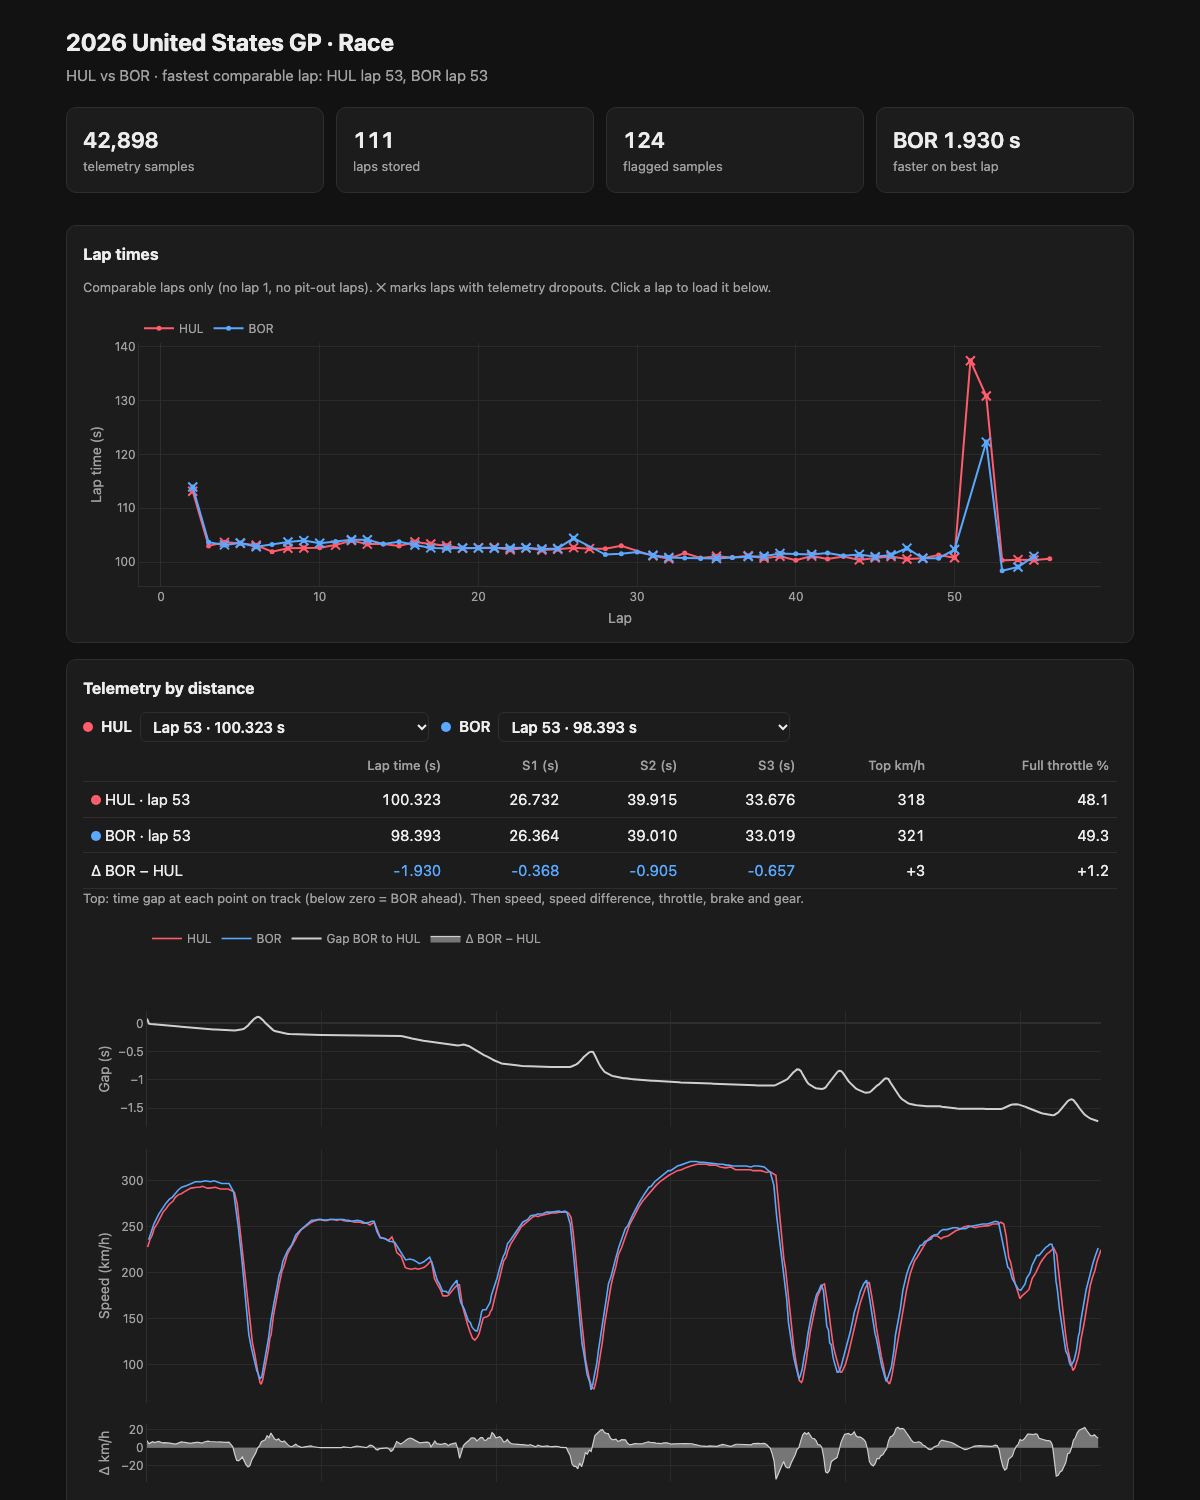
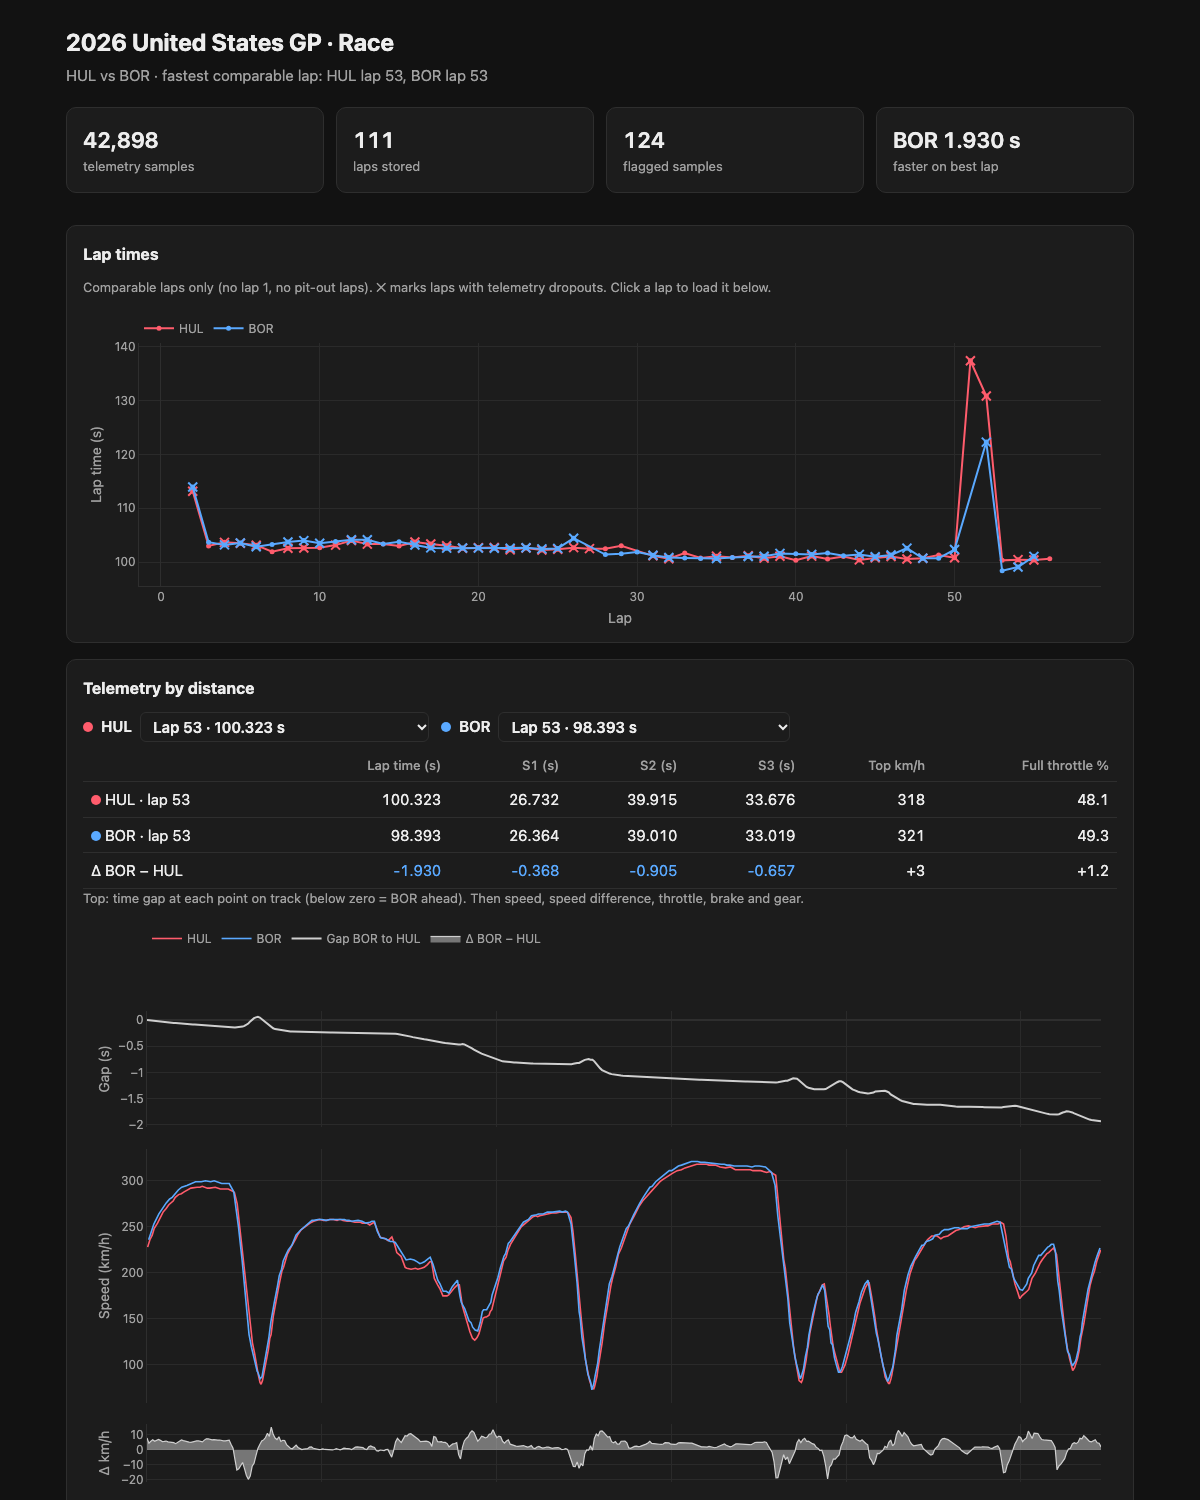
Cache raw API data, test loading, align laps in the time gap
- get() keeps raw OpenF1 responses in .cache/ and retries rate limits,
  server errors and timeouts; client errors fail at once.
- Offline tests for load() (lap assignment, grid and post-race samples
  dropped, comparable laps) and for retry and cache.
- Report closes each lap at the line and scales both laps to the same
  length, so the time gap runs from 0 to the real lap-time difference.

diff --git a/f1telemetry/report.html b/f1telemetry/report.html
@@ -170,17 +170,30 @@ function sectors() {
 function telemetry() {
   sectors();
   const t = { [A]: D.traces[A][sel[A]], [B]: D.traces[B][sel[B]] };
-  const ca = clean(t[A]), cb = clean(t[B]);
-  const len = Math.min(ca.x[ca.x.length - 1], cb.x[cb.x.length - 1]);
+  const c = { [A]: clean(t[A]), [B]: clean(t[B]) };
+  // Distance is estimated, so the two laps come out a few metres different in length. Close each lap at the
+  // line (the stretch after its last sample, from its lap time) and scale both to the same length, so a
+  // corner sits at the same x for both cars and the gap ends at the real lap-time difference.
+  const end = {};
+  for (const d of D.drivers) {
+    const p = c[d], n = p.x.length - 1, lapTime = (lapRow(d, sel[d]) || {}).LapTimeS;
+    const tail = lapTime != null ? Math.max(0, lapTime - p.t[n]) : 0;
+    end[d] = p.x[n] + p.v[n] / 3.6 * tail;
+    p.x.push(end[d]); p.v.push(p.v[n]); p.t.push(p.t[n] + tail);
+    p.x.unshift(0); p.v.unshift(p.v[0]); p.t.unshift(0);  // both cars cross the line at 0 s, 0 m
+  }
+  const len = (end[A] + end[B]) / 2, k = { [A]: len / end[A], [B]: len / end[B] };
+  for (const d of D.drivers) c[d].x = c[d].x.map(x => x * k[d]);
+  const ca = c[A], cb = c[B];
   const grid = Array.from({ length: 500 }, (_, i) => len * i / 499);
   const delta = grid.map(x => interp(x, cb.x, cb.v) - interp(x, ca.x, ca.v));
   // Time gap at the same point on track: negative means B got there first.
   const gap = grid.map(x => interp(x, cb.x, cb.t) - interp(x, ca.x, ca.t));
   const rows = [["y", "Speed", "Speed (km/h)"], ["y3", "Throttle", "Throttle (%)"], ["y4", "Brake", "Brake"], ["y5", "nGear", "Gear"]];
   const traces = [];
-  for (const d of D.drivers) for (const [ax, k] of rows)
-    traces.push({ x: t[d].Distance, y: t[d][k], yaxis: ax, name: d, legendgroup: d, showlegend: ax === "y",
-      line: { color: color(d), width: 1.6, shape: k === "nGear" ? "hv" : "linear" },
+  for (const d of D.drivers) for (const [ax, key] of rows)
+    traces.push({ x: t[d].Distance.map(x => x == null ? null : x * k[d]), y: t[d][key], yaxis: ax, name: d, legendgroup: d, showlegend: ax === "y",
+      line: { color: color(d), width: 1.6, shape: key === "nGear" ? "hv" : "linear" },
       hovertemplate: `${d} %{y} @ %{x:.0f} m<extra></extra>` });
   traces.push({ x: grid, y: gap, yaxis: "y6", name: `Gap ${B} to ${A}`,
     line: { color: css("--delta"), width: 2 }, hovertemplate: `gap %{y:+.3f} s @ %{x:.0f} m<extra></extra>` });

diff --git a/report.html b/report.html
@@ -170,17 +170,30 @@ function sectors() {
 function telemetry() {
   sectors();
   const t = { [A]: D.traces[A][sel[A]], [B]: D.traces[B][sel[B]] };
-  const ca = clean(t[A]), cb = clean(t[B]);
-  const len = Math.min(ca.x[ca.x.length - 1], cb.x[cb.x.length - 1]);
+  const c = { [A]: clean(t[A]), [B]: clean(t[B]) };
+  // Distance is estimated, so the two laps come out a few metres different in length. Close each lap at the
+  // line (the stretch after its last sample, from its lap time) and scale both to the same length, so a
+  // corner sits at the same x for both cars and the gap ends at the real lap-time difference.
+  const end = {};
+  for (const d of D.drivers) {
+    const p = c[d], n = p.x.length - 1, lapTime = (lapRow(d, sel[d]) || {}).LapTimeS;
+    const tail = lapTime != null ? Math.max(0, lapTime - p.t[n]) : 0;
+    end[d] = p.x[n] + p.v[n] / 3.6 * tail;
+    p.x.push(end[d]); p.v.push(p.v[n]); p.t.push(p.t[n] + tail);
+    p.x.unshift(0); p.v.unshift(p.v[0]); p.t.unshift(0);  // both cars cross the line at 0 s, 0 m
+  }
+  const len = (end[A] + end[B]) / 2, k = { [A]: len / end[A], [B]: len / end[B] };
+  for (const d of D.drivers) c[d].x = c[d].x.map(x => x * k[d]);
+  const ca = c[A], cb = c[B];
   const grid = Array.from({ length: 500 }, (_, i) => len * i / 499);
   const delta = grid.map(x => interp(x, cb.x, cb.v) - interp(x, ca.x, ca.v));
   // Time gap at the same point on track: negative means B got there first.
   const gap = grid.map(x => interp(x, cb.x, cb.t) - interp(x, ca.x, ca.t));
   const rows = [["y", "Speed", "Speed (km/h)"], ["y3", "Throttle", "Throttle (%)"], ["y4", "Brake", "Brake"], ["y5", "nGear", "Gear"]];
   const traces = [];
-  for (const d of D.drivers) for (const [ax, k] of rows)
-    traces.push({ x: t[d].Distance, y: t[d][k], yaxis: ax, name: d, legendgroup: d, showlegend: ax === "y",
-      line: { color: color(d), width: 1.6, shape: k === "nGear" ? "hv" : "linear" },
+  for (const d of D.drivers) for (const [ax, key] of rows)
+    traces.push({ x: t[d].Distance.map(x => x == null ? null : x * k[d]), y: t[d][key], yaxis: ax, name: d, legendgroup: d, showlegend: ax === "y",
+      line: { color: color(d), width: 1.6, shape: key === "nGear" ? "hv" : "linear" },
       hovertemplate: `${d} %{y} @ %{x:.0f} m<extra></extra>` });
   traces.push({ x: grid, y: gap, yaxis: "y6", name: `Gap ${B} to ${A}`,
     line: { color: css("--delta"), width: 2 }, hovertemplate: `gap %{y:+.3f} s @ %{x:.0f} m<extra></extra>` });

diff --git a/tests/test_pipeline.py b/tests/test_pipeline.py
@@ -1,6 +1,11 @@
-import pandas as pd
+import io
+import urllib.error
 
-from f1telemetry.pipeline import add_distance, compare, validate
+import pandas as pd
+import pytest
+
+from f1telemetry import pipeline
+from f1telemetry.pipeline import add_distance, compare, load, validate
 
 
 def samples(**override):
@@ -89,3 +94,51 @@ def test_report_embeds_traces_and_comparison():
     assert data["traces"]["BOR"]["1"]["Speed"] == [270.0, None, 290.0, 300.0]  # NaN becomes null
     assert data["comparison"]["delta_s"] == 0.5
     assert "<title>Test GP</title>" in html
+
+
+def test_load_assigns_samples_to_laps_and_drops_the_rest(monkeypatch):
+    t = lambda s: (pd.Timestamp("2026-10-25T19:00:00Z") + pd.Timedelta(seconds=s)).isoformat()
+    api = {
+        "sessions": [{"session_key": 1, "date_start": t(0)}],
+        "drivers": [{"name_acronym": "HUL", "driver_number": 27}],
+        "laps": [  # lap 1 from the grid, lap 2 a normal lap, lap 3 out of the pits
+            {"lap_number": n, "date_start": t(start), "lap_duration": dur, "is_pit_out_lap": pit,
+             "duration_sector_1": 30.0, "duration_sector_2": 30.0, "duration_sector_3": 30.0}
+            for n, start, dur, pit in [(1, 10, 100, None), (2, 110, 90, False), (3, 200, 95, True)]],
+        "car_data": [{"date": t(s), "speed": 200, "rpm": 11000, "n_gear": 6, "throttle": 100, "brake": 0, "drs": 0}
+                     for s in (5, 10.5, 109.9, 110.2, 400)],  # 5 s is on the grid, 400 s after the last lap
+    }
+    monkeypatch.setattr(pipeline, "get", lambda endpoint, **_: pd.DataFrame(api[endpoint]))
+    samples, laps = load(2026, "Austin", "Race", ["HUL"])
+    assert samples["LapNumber"].tolist() == [1, 1, 2]
+    assert samples["TimeInLapS"].round(3).tolist() == [0.5, 99.9, 0.2]
+    assert samples["SessionTimeS"].tolist()[0] == 10.5
+    assert laps["IsAccurate"].tolist() == [False, True, False]
+
+
+def test_get_retries_rate_limits_and_caches_raw_data(monkeypatch, tmp_path):
+    calls = []
+
+    def urlopen(url, timeout):
+        calls.append(url)
+        if len(calls) == 1:
+            raise urllib.error.HTTPError(url, 429, "Too Many Requests", None, None)
+        return io.BytesIO(b'[{"lap_number": 1}]')
+
+    monkeypatch.setattr(pipeline, "CACHE", tmp_path)
+    monkeypatch.setattr(pipeline.urllib.request, "urlopen", urlopen)
+    monkeypatch.setattr(pipeline.time, "sleep", lambda s: None)
+    assert pipeline.get("laps", session_key=1).to_dict("records") == [{"lap_number": 1}]
+    assert pipeline.get("laps", session_key=1).to_dict("records") == [{"lap_number": 1}]  # from the cache
+    assert len(calls) == 2  # one rate-limited attempt, one success, nothing for the second call
+
+
+def test_get_does_not_retry_a_bad_request(monkeypatch, tmp_path):
+    def urlopen(url, timeout):
+        raise urllib.error.HTTPError(url, 404, "Not Found", None, None)
+
+    monkeypatch.setattr(pipeline, "CACHE", tmp_path)
+    monkeypatch.setattr(pipeline.urllib.request, "urlopen", urlopen)
+    with pytest.raises(urllib.error.HTTPError):
+        pipeline.get("laps", session_key=1)
+    assert not list(tmp_path.iterdir())

diff --git a/f1telemetry/pipeline.py b/f1telemetry/pipeline.py
@@ -1,8 +1,11 @@
 """Ingest, validate, store and compare F1 car telemetry."""
 import json
 import sqlite3
+import time
+import urllib.error
 import urllib.parse
 import urllib.request
+from pathlib import Path
 
 import numpy as np
 import pandas as pd
@@ -12,14 +15,35 @@ CHANNELS = ["Speed", "RPM", "nGear", "Throttle", "Brake", "DRS"]
 # Physical limits for an F1 car; anything outside is a sensor or transmission error
 # (OpenF1 reports 104 for throttle/brake when the value is invalid).
 LIMITS = {"Speed": (0, 380), "RPM": (0, 15500), "nGear": (0, 8), "Throttle": (0, 100), "Brake": (0, 100)}
+CACHE = Path(".cache")  # raw API responses; delete it to download again
+RETRIES = 4
 MAX_GAP_S = 1.0  # car data arrives at ~4 Hz; a longer gap is a dropout
 MATCH_S = 0.5  # gaps in different cars this close together are the same feed dropout
 
 
 def get(endpoint, **params):
-    url = f"{API}/{endpoint}?{urllib.parse.urlencode(params)}"
-    with urllib.request.urlopen(url, timeout=120) as r:
-        return pd.DataFrame(json.load(r))
+    """Fetch one OpenF1 endpoint. The raw JSON is kept in CACHE, so reruns do not download again."""
+    query = urllib.parse.urlencode(sorted(params.items()))
+    path = CACHE / f"{endpoint}_{query}.json"
+    if not path.exists():
+        raw = fetch(f"{API}/{endpoint}?{query}")
+        CACHE.mkdir(exist_ok=True)
+        path.with_suffix(".tmp").write_bytes(raw)
+        path.with_suffix(".tmp").replace(path)  # never leave a half-written file in the cache
+    return pd.DataFrame(json.loads(path.read_bytes()))
+
+
+def fetch(url):
+    """Download with retries: OpenF1 rate-limits (429) and occasionally times out."""
+    for attempt in range(RETRIES):
+        try:
+            with urllib.request.urlopen(url, timeout=120) as r:
+                return r.read()
+        except (urllib.error.URLError, TimeoutError) as e:
+            client_error = isinstance(e, urllib.error.HTTPError) and e.code < 500 and e.code != 429
+            if client_error or attempt == RETRIES - 1:
+                raise
+            time.sleep(2 ** attempt)
 
 
 def find_session(year, location, session="Race"):

diff --git a/README.md b/README.md
@@ -31,7 +31,9 @@ uv run python -m f1telemetry.report --title "2026 United States GP · Race"
 uv run pytest
 ```
 
-The first command downloads and stores the data. The second writes `report.html`, which you open in a browser.
+The first command downloads and stores the data. Raw API responses are kept in `.cache/`, so a rerun
+takes under a second instead of ~7; failed downloads and rate limits are retried. The second command
+writes `report.html`, which you open in a browser.
 
 ## Result: 2026 US GP, Hülkenberg vs Bortoleto (Audi)
 
@@ -73,7 +75,7 @@ measured centre line.
 ## Limits
 
 - About 4 samples per second: OpenF1's rate, far below the car's real sensor rate.
-- Distance is estimated from speed, not measured, so small offsets show up as spikes in the time gap at braking points.
+- Distance is estimated from speed, not measured. The report scales both laps to the same length so corners line up, but small bumps in the time gap at braking points remain.
 - Two drivers per run.
 
 ## Next steps
@@ -84,7 +86,7 @@ measured centre line.
 
 ## Built with
 
-Python 3.12, pandas, numpy, SQLite, Plotly. Seven pytest tests cover validation, dropout classification, distance, lap comparison and the report.
+Python 3.12, pandas, numpy, SQLite, Plotly. Ten pytest tests run without internet and cover loading, retries and caching, validation, dropout classification, distance, lap comparison and the report.
 
 ---
 
